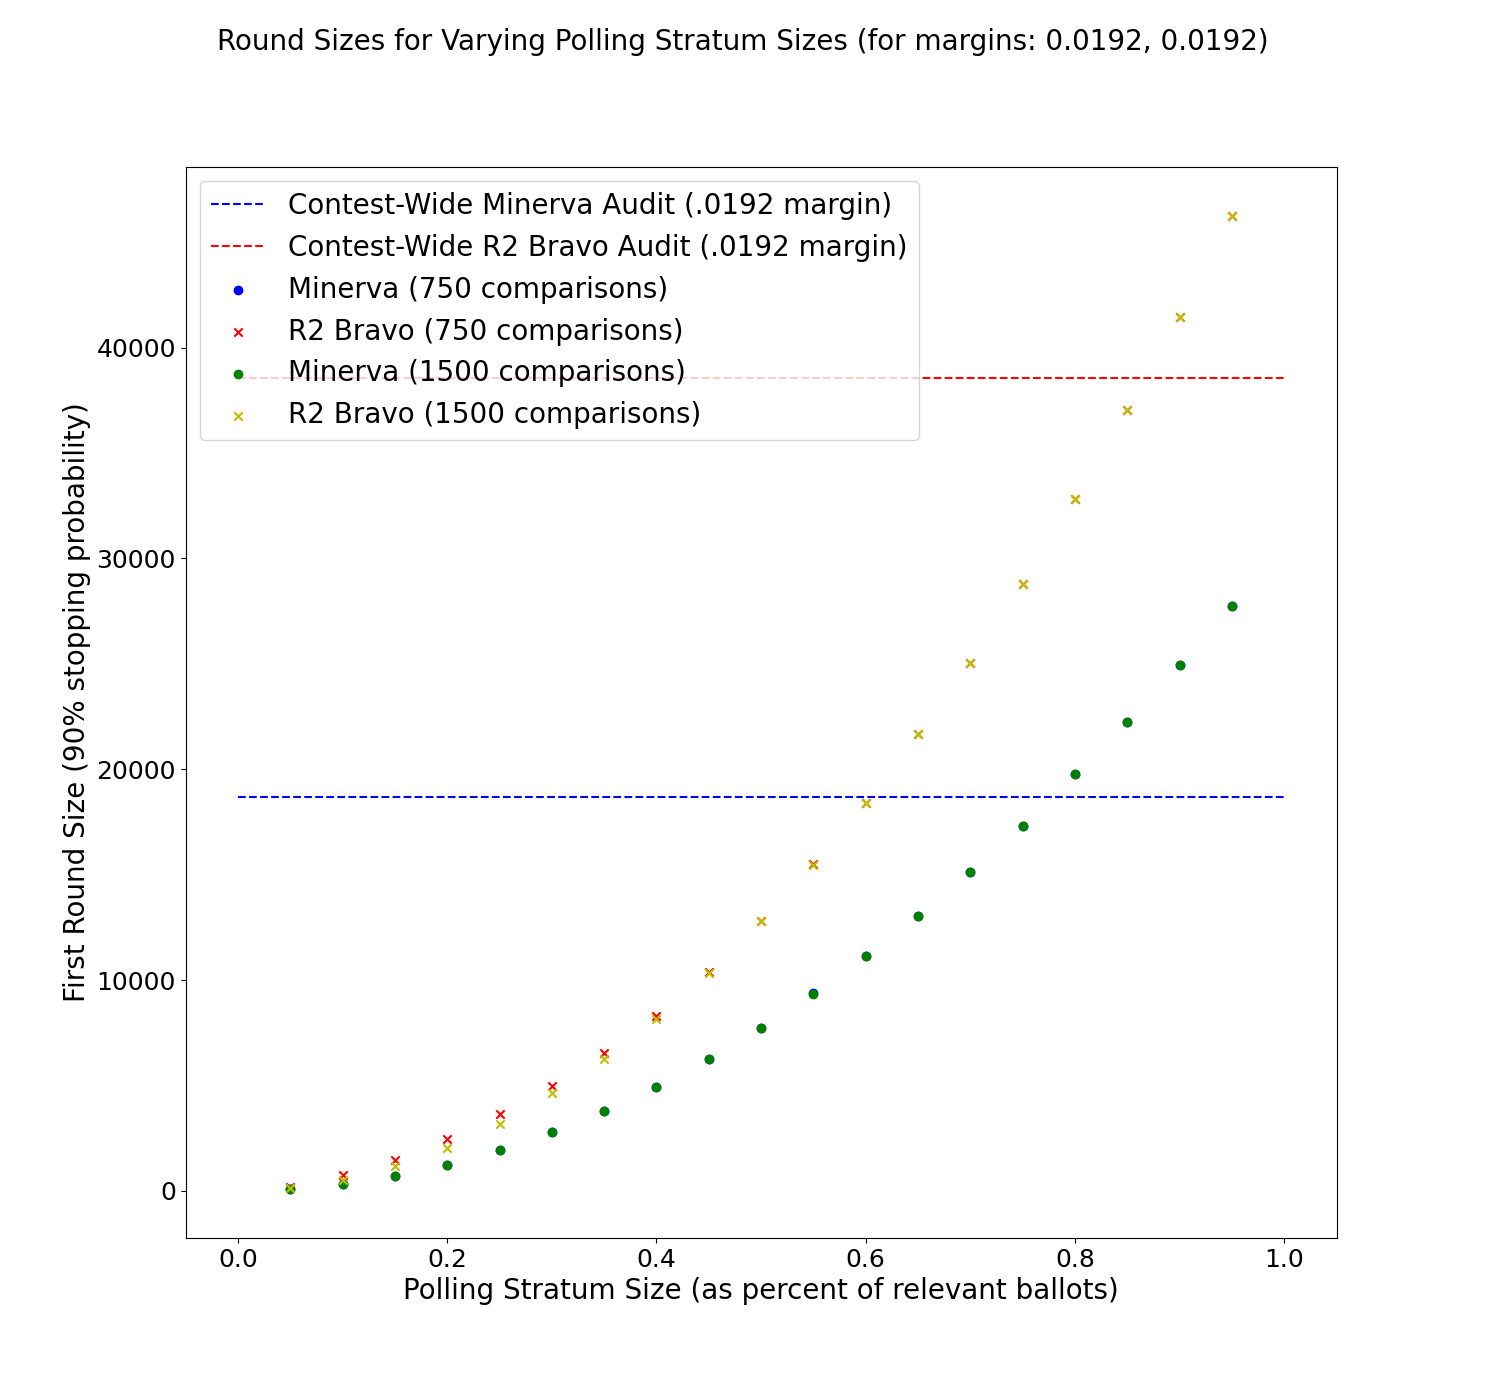
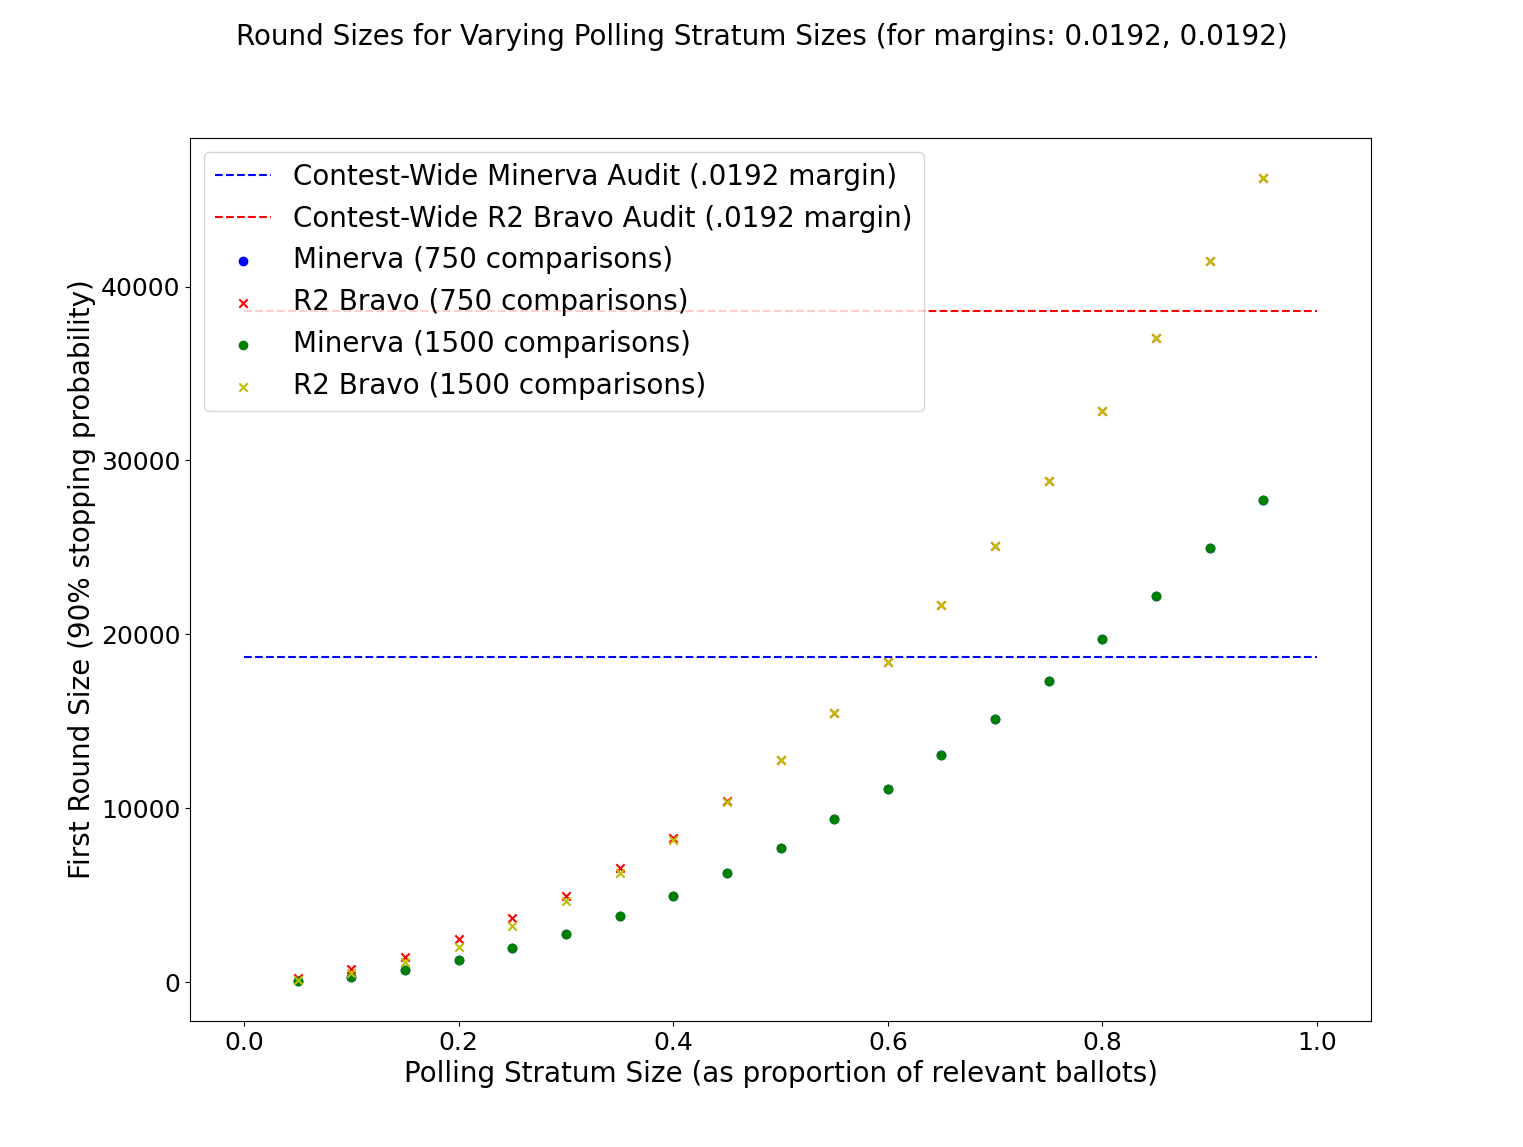
last readme plot fix from percent to proportion

diff --git a/plot_data_two.py b/plot_data_two.py
@@ -85,7 +85,7 @@ ax.scatter(percent_pollings, minerva_round_sizes, color='b', marker='o', label='
 ax.scatter(percent_pollings, r2bravo_round_sizes, color='r', marker='x', label='R2 Bravo (750 comparisons)')
 ax.scatter(percent_pollings_2, minerva_round_sizes_2, color='g', marker='o', label='Minerva (1500 comparisons)')
 ax.scatter(percent_pollings_2, r2bravo_round_sizes_2, color='y', marker='x', label='R2 Bravo (1500 comparisons)')
-ax.set_xlabel('Polling Stratum Size (as percent of relevant ballots)', fontsize=20)
+ax.set_xlabel('Polling Stratum Size (as proportion of relevant ballots)', fontsize=20)
 ax.set_ylabel('First Round Size (90% stopping probability)', fontsize=20)
 ax.plot([0,1],[minerva_round_size_no_stratification,minerva_round_size_no_stratification], label='Contest-Wide Minerva Audit (.0192 margin)', linestyle='dashed', color='b')
 ax.plot([0,1],[r2bravo_round_size_no_stratification,r2bravo_round_size_no_stratification], label='Contest-Wide R2 Bravo Audit (.0192 margin)', linestyle='dashed', color='r')
